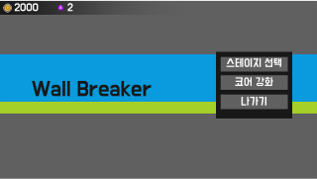
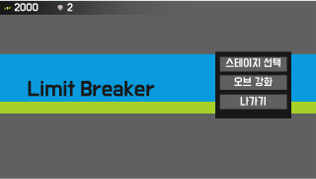
GUI 기획서 완성

diff --git a/src/Sections/GUI.js b/src/Sections/GUI.js
@@ -1,0 +1,90 @@
+import React from "react";
+
+function GUI() {
+    return (
+        <>
+            <div className="Main-text">
+                본 게임이 시작하기 전에 들르게 되는 화면이다.<br />
+                스테이지 선택, 오브 강화 등 다양한 것들을 선택할 수 있다.
+            </div>
+            <div className="Image">
+                <img className="Image-right" src={require('../img/mainPage.png')} alt="Options" />
+            </div>
+        </>
+    );
+}
+
+function GUI2() {
+    return (
+        <>
+            <div className="Main-text">
+                메인 화면에서 <mark>스테이지 선택</mark>에 들어갔을 때 보게 되는 화면이다.<br />
+                스테이지의 이름과 상징물을 내세움으로써 컨셉을 강조하는 것이 목적이다.
+            </div>
+            <div className="Image">
+                <img className="Image-right" src={require('../img/mainPage2.png')} alt="Options" />
+            </div>
+        </>
+    );
+}
+
+function GUI3() {
+    return (
+        <>
+            <div className="Main-text">
+                메인 화면에서 <mark>오브 강화</mark>에 들어갔을 때 보게 되는 화면이다.<br />
+                다양한 강화 요소들과 해당 요소를 직관적으로 보여주는 아이콘들,<br />
+                그리고 그 아래쪽에 있는 현재 레벨 등으로 편한 강화가 가능하게 한다.
+            </div>
+            <div className="Image">
+                <img className="Image-right" src={require('../img/options.png')} alt="Options" />
+            </div>
+        </>
+    );
+}
+
+function GUI4() {
+    return (
+        <>
+            <div className="Main-text">
+                클릭을 유지한 시간에 비례하여 게이지가 왼쪽에서부터 차오르며<br />
+                화면 아래쪽에 길쭉하게 배치함으로써 눈에 잘 들어오게 한다.<br /><br />
+                차오를수록 초록색에서 점차 빨간색으로 변하게 하여 충전된다는 것을<br />
+                직관적으로 보여주면서 완충될 시 자동으로 날려진다는 것을 강조한다.
+            </div>
+            <div className="Image">
+                <img className="Image-right" src={require('../img/gaugeUI.png')} alt="Options" />
+            </div>
+        </>
+    );
+}
+
+function GUI5() {
+    return (
+        <>
+            <div className="Main-text">
+                퓨어 오브의 HP는 좌측 상단에 있는 하트로 표시하며 하트가 깎이면<br />
+                짙은 회색으로 보이게 해 비어 있는 체력이라는 것을 각인시킨다.
+            </div>
+            <div className="Image">
+                <img className="Image-right" src={require('../img/heartUI.png')} alt="Options" />
+            </div>
+        </>
+    );
+}
+
+function GUI6() {
+    return (
+        <>
+            <div className="Main-text">
+                보스 개체의 체력 바는 화면 위쪽에 고정하여 표시한다. 이를 통해<br />
+                보스가 나타났다는 것을 효율적으로 각인시키고 가시성도 높인다.
+            </div>
+            <div className="Image">
+                <img className="Image-right" src={require('../img/bossHealthUI.png')} alt="Options" />
+            </div>
+        </>
+    );
+}
+
+export { GUI, GUI2, GUI3, GUI4, GUI5, GUI6 };

diff --git a/src/SectionsGUI.js b/src/SectionsGUI.js
@@ -1,0 +1,46 @@
+import React from "react";
+import ReactFullpage from "@fullpage/react-fullpage";
+import { MainContext } from "./Sections/MainContext";
+import { Section } from "./Section";
+import { GUI, GUI2, GUI3, GUI4, GUI5, GUI6 } from "./Sections/GUI";
+
+export const anchors = ["g01", "g02", "g03", "g04", "g05", "g06"];
+
+export default function SectionsEntry() {
+    return (
+        <ReactFullpage
+            anchors={anchors}
+            navigation
+            navigationTooltips={anchors}
+            licenseKey='YOUR_KEY_HERE'
+            render={({ state, fullpageApi }) => {
+                return (
+                    <div>
+                        <Section>
+                            <MainContext number="01" title="메인 화면" content={GUI()} />
+                        </Section>
+
+                        <Section>
+                            <MainContext number="02" title="스테이지 선택 화면" content={GUI2()} />
+                        </Section>
+
+                        <Section>
+                            <MainContext number="03" title="오브 강화 화면" content={GUI3()} />
+                        </Section>
+
+                        <Section>
+                            <MainContext number="04" title="게이지 UI" content={GUI4()} />
+                        </Section>
+
+                        <Section>
+                            <MainContext number="05" title="하트 UI" content={GUI5()} />
+                        </Section>
+
+                        <Section>
+                            <MainContext number="06" title="보스 체력바 UI" content={GUI6()} />
+                        </Section>
+                    </div>
+                );
+            }} />
+    );
+}

diff --git a/src/App.js b/src/App.js
@@ -5,6 +5,7 @@ import "fullpage.js/vendors/scrolloverflow"; // Optional. When using scrollOverf
 
 import MainView from "./Sections/MainView";
 import SectionsEntry from "./SectionsEntry";
+import SectionsGUI from "./SectionsGUI";
 import SectionsStory from "./SectionsStory";
 import SectionsSettings from "./SectionsSettings";
 
@@ -55,6 +56,14 @@ function App() {
             return (
                 <div className="FullPage" style={style}>
                     <SectionsEntry />
+                </div>
+            );
+
+        case stateViewEnum.gui:
+            console.log("GUI: " + currentViewState);
+            return (
+                <div className="FullPage" style={style}>
+                    <SectionsGUI />
                 </div>
             );
 
